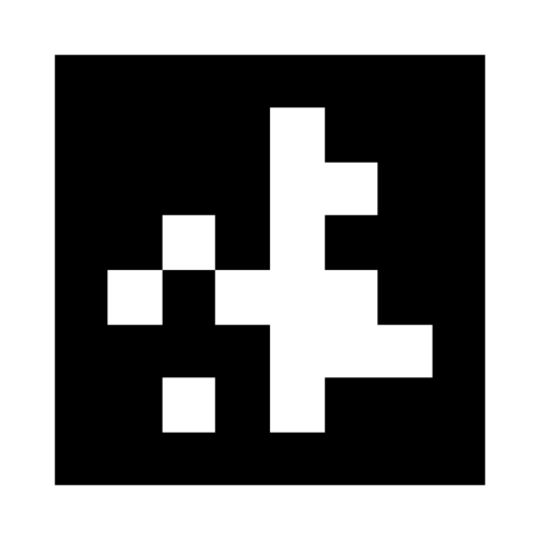
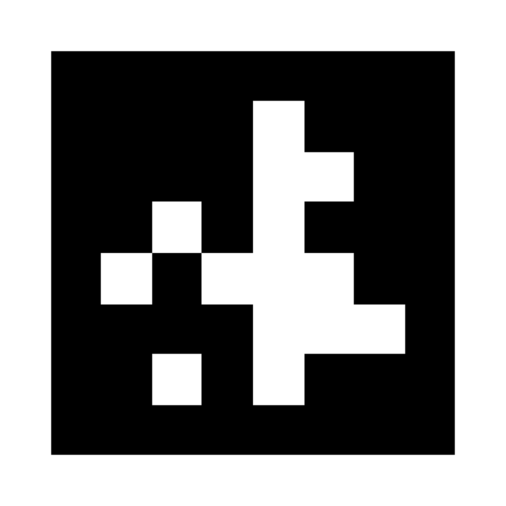
Resize tags to 4 inches (0.10m) and update all documentation
The IMX219 at 320x240 uses a center-crop sensor mode (~27 HFOV),
not the full 62 HFOV. A 6-inch tag filled half the frame at 31
inches. 4-inch tags are better sized for the actual camera FOV
while still detectable at 2m altitude.

Updated: tag PNGs (360x360px), SETUP.md, README.md, tag map YAML
comments. Hardware bringup launch files already had size=0.1.

diff --git a/tags/SETUP.md b/tags/SETUP.md
@@ -9,8 +9,8 @@ This folder contains 20 AprilTag 36h11 PNGs (IDs 0-19) for printing.
 ## Printing
 
 - Print each tag on a standard **8.5×11 inch** sheet of paper
-- The PNGs are pre-sized to **540×540 pixels at 72 DPI = 7.5 inches total**
-- At that size the **black area is 6 inches (15cm)** with a 0.75-inch white margin on each side
+- The PNGs are pre-sized to **360×360 pixels at 72 DPI = 5 inches total**
+- At that size the **black area is 4 inches (10cm)** with a 0.5-inch white margin on each side
 - Just print at **100% scale** (no fit-to-page) — the tag will be centered with the correct margins
 - Use **matte paper** (not glossy — glare interferes with detection)
 - Standard black and white laser or inkjet printing works fine
@@ -78,10 +78,10 @@ Row 10:[Tag 18] [Tag 19]  ← END (9m from start)
 
 ## Camera Coverage
 
-At 2m flight altitude with the Pi Camera v2 (62° HFOV):
-- Camera sees a ~2.4m × 1.8m patch of floor
-- **4 tags visible** at any point along the path
-- If the drone drifts sideways, tags remain in view (field is wider than the grid)
+At 2m flight altitude with the Pi Camera v2 (IMX219 at 320×240, ~27° HFOV due to center-crop sensor mode):
+- Camera sees a ~0.95m × 0.71m patch of floor
+- **1-2 tags visible** at any point along the path
+- The narrow FOV is a hardware constraint — the IMX219 uses a center-crop (not full-sensor binning) at low resolutions
 
 ## PX4 Parameters for Real Hardware
 
@@ -101,11 +101,11 @@ param set MPC_XY_CRUISE 0.25    # Cruise speed (m/s)
 
 ## Bringup Launch File
 
-Update the tag size in your hardware launch file before flying:
+The tag size in the hardware bringup launch files is already set to match:
 
 ```python
 # In dexi_bringup_pi5.launch.py (or dexi_bringup_ark_cm4.launch.py):
-'size': 0.15,  # Must match physical tag size (6 inches = 0.15m)
+'size': 0.1,  # Must match physical tag size (4 inches = 0.10m)
 ```
 
 ## Testing Before Flight

diff --git a/README.md b/README.md
@@ -74,7 +74,7 @@ The tag map is defined in `config/tag_map_sim.yaml`. It maps tag IDs to NED worl
 - **x**: NED North position (meters) — corresponds to Unity Z axis
 - **y**: NED East position (meters) — corresponds to Unity X axis
 
-The Unity `AprilTagNavigationScene` has a 2×10 grid of 6-inch (0.15m) tags:
+The Unity `AprilTagNavigationScene` has a 2×10 grid of 6-inch (0.15m) tags in simulation (4-inch / 0.10m for real hardware):
 - 2 columns (X = -0.25m, +0.25m), 10 rows (Z = 0m to 9m)
 - Tag IDs 0-19, spacing: 0.5m across, 1.0m along flight path
 - Flight area: 15ft × 15ft × 40ft cage
